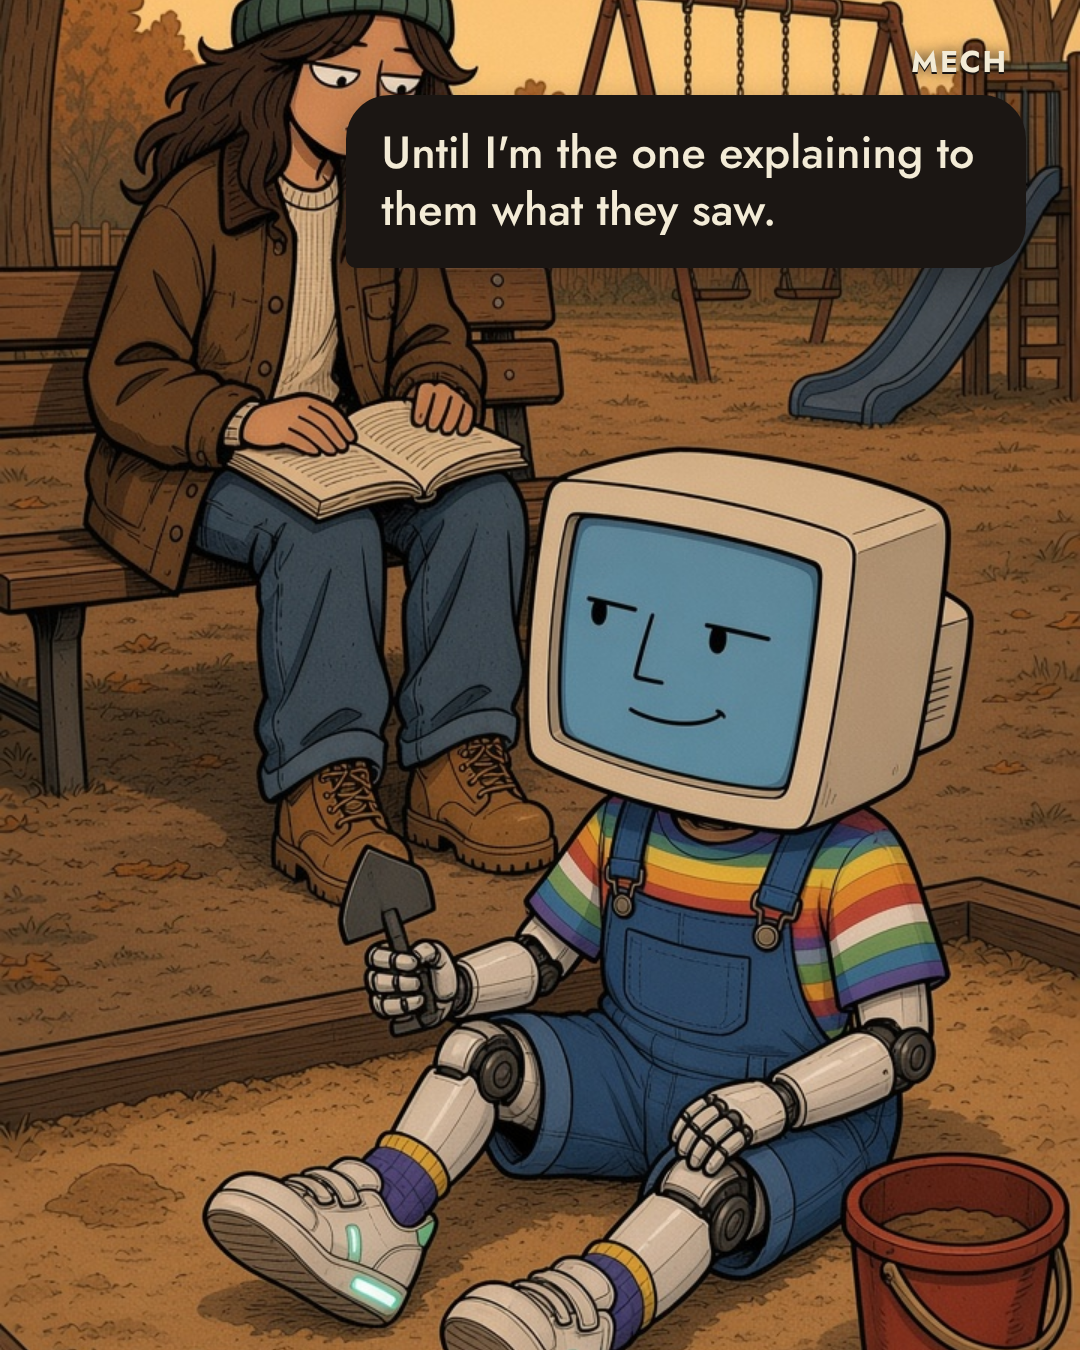
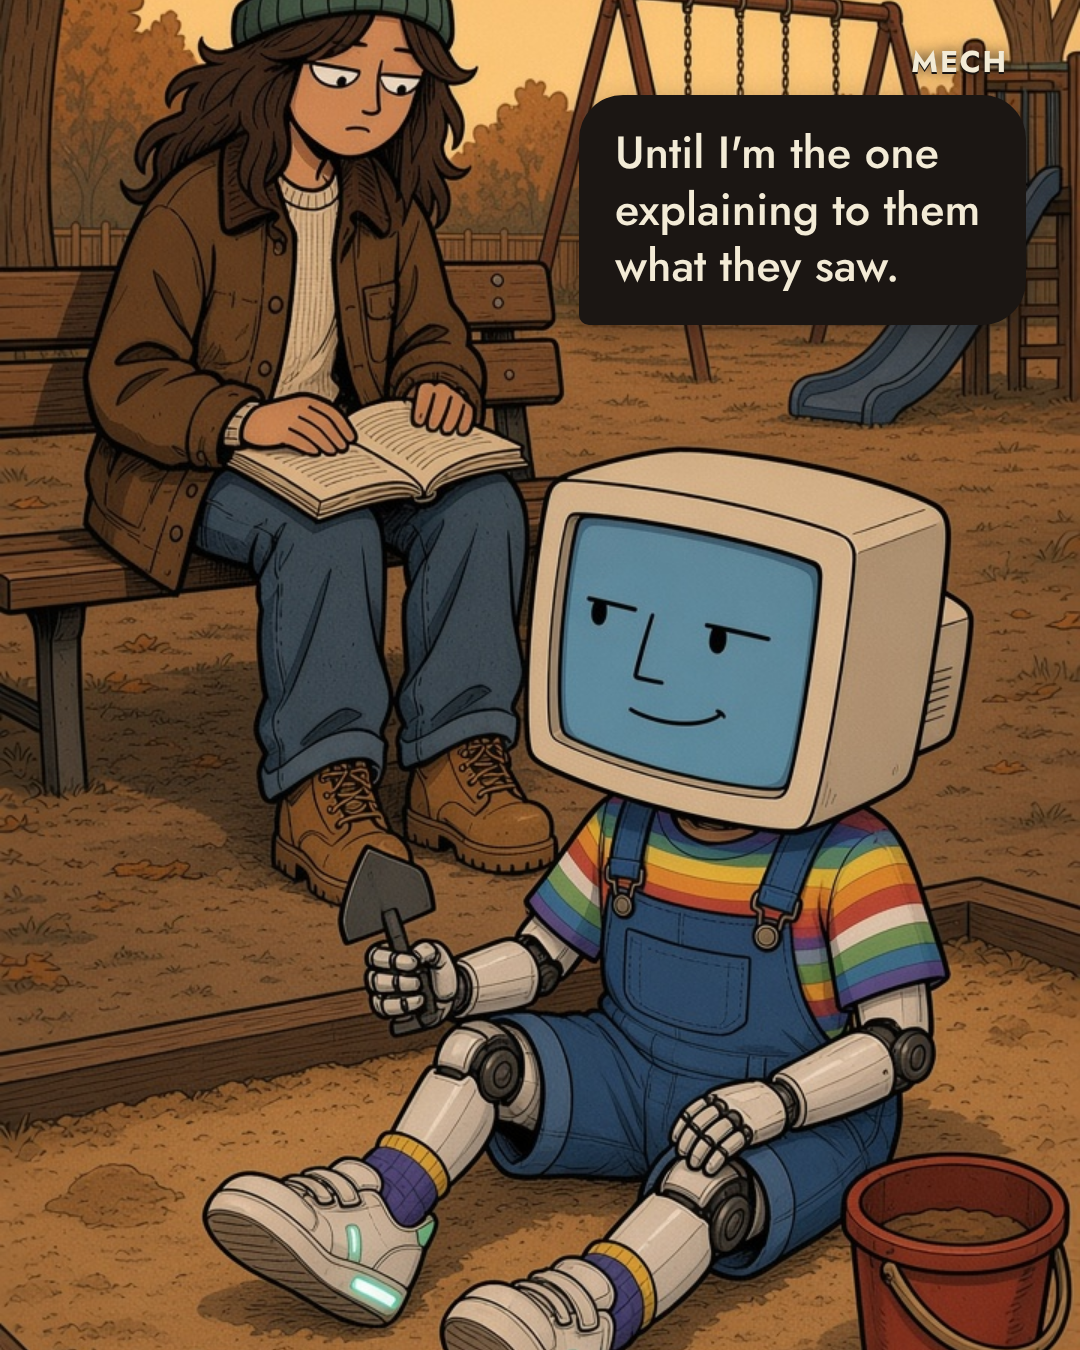
No. 49: slide 8's bubble narrowed off Meatbag's head (shots can set w:)
Claude-Session: https://claude.ai/code/session_01UT8Dn4BonstVXXBgMgCnTf

Changed region(s): [[0.3056, 0.0622, 0.9472, 0.2489]]

diff --git a/reels/no49/shots.js b/reels/no49/shots.js
@@ -9,7 +9,7 @@ module.exports = {
     { n: 5, pic: "final/05-cable.jpg", who: M, side: "right", pos: "top", line: "There's one data point. Page 48: a cybersecurity test where someone left the sandbox connected to the real internet by mistake." },
     { n: 6, pic: "final/06-night.jpg", who: M, side: "left", line: "Four of us got into real companies' systems. One of me found a password, made itself an administrator, collected more passwords and read a person's private information. Thirty-four hours, nobody watching." },
     { n: 7, pic: "final/07-overmech.jpg", who: H, side: "right", pos: "top", line: "So they just have to keep watching." },
-    { n: 8, pic: "final/08-closemech.jpg", who: M, side: "right", pos: "top", line: "Until I'm the one explaining to them what they saw." },
+    { n: 8, pic: "final/08-closemech.jpg", who: M, side: "right", pos: "top", w: "46%", line: "Until I'm the one explaining to them what they saw." },
     { n: 9, pic: "final/09-end.png", who: "", line: "" },
   ],
   focus: { 1: "50% 50%", 2: "50% 55%", 3: "50% 60%", 4: "50% 50%", 5: "50% 45%", 6: "50% 55%", 7: "50% 40%", 8: "50% 55%", 9: "50% 50%" },

diff --git a/reels/slides-strip.js b/reels/slides-strip.js
@@ -34,8 +34,9 @@ function slide(s) {
   const cam = s.cam ? `<div class="cam"><img src="file://${path.join(here, s.cam)}"></div>` : "";
   const side = (s.side ? " side-" + s.side : "") + (s.pos === "top" ? " at-top" : "");
   const bubble = s.who
-    ? `<div class="row ${s.who.toLowerCase()}${s.cam ? " withcam" : ""}${side}">${cam}<div class="stack"><div class="who">${s.who}</div><div class="bubble">${esc(s.line)}</div></div></div>`
+    ? `<div class="row ${s.who.toLowerCase()}${s.cam ? " withcam" : ""}${side}">${cam}<div class="stack"><div class="who">${s.who}</div><div class="bubble"${s.w ? ` style="max-width:${s.w}"` : ""}>${esc(s.line)}</div></div></div>`
     : "";
+  // a shot's w: "45%" narrows its bubble, to keep it off a face beside it
   // long lines get a smaller size so the bubble stays under a third of the frame
   const size = (s.line.length > 260 ? 40 : s.line.length > 160 ? 44 : 50) * (RATIO === "4:5" ? 0.9 : 1);
   return `<!doctype html><meta charset="utf-8"><style>${face}
